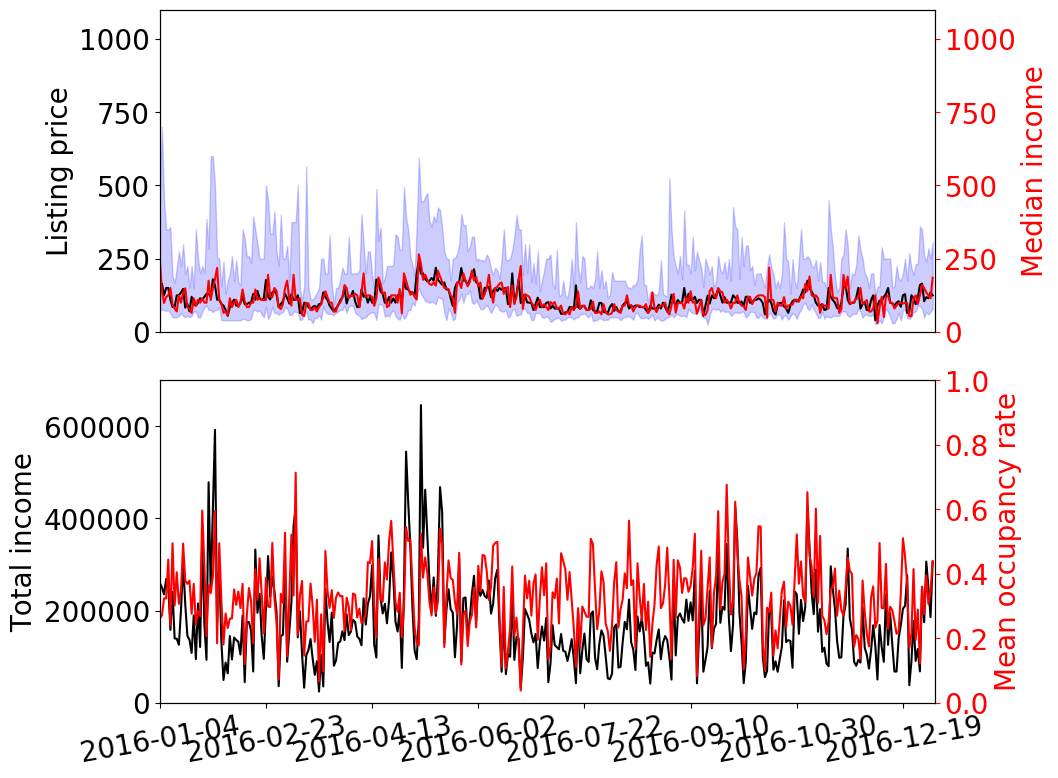
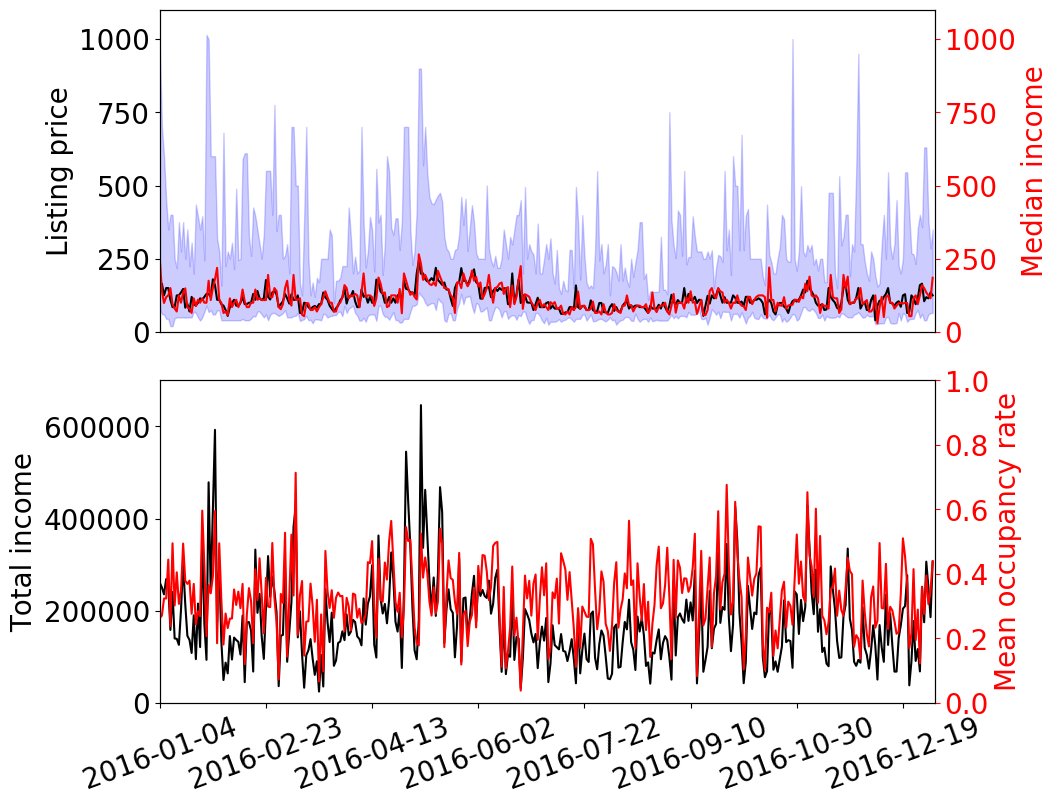
s

diff --git a/Project_1/2.py b/Project_1/2.py
@@ -12,12 +12,13 @@ cal = pd.read_csv('../Data/Project_1/calendar.csv')
 price = cal.apply(lambda row: float(re.sub('(\$|,)', '', row['price'])) if isinstance(row['price'], str) else np.nan, axis=1)
 price = pd.DataFrame(price.values.reshape(365, -1))
 price = price.ffill().bfill()
-price_qt = price.quantile([.1, .5, 0.9], axis=1).T
+price_qt = price.quantile([.05, .5, 0.95], axis=1).T
 price_top = ((price.T*-1).apply(lambda x: x.sort_values().values)*-1).T.iloc[:, :380]
 price_top_qt = price_top.quantile([.1, .5, 0.9], axis=1).T
 occupancy = pd.DataFrame(cal['available'].values.reshape(365, -1))
 occupancy = occupancy.replace(['t', 'f'], [0, 1])
 income = price*occupancy
+income_qt = income.replace(0, np.nan).quantile([0.05, 0.5, 0.95], axis=1).T
 date = cal['date'][:365]
 
 # figure
@@ -25,7 +26,7 @@ date = cal['date'][:365]
 fig = plt.figure(figsize=(10, 9))
 ax1 = fig.add_subplot(2, 1, 1)
 ax1.plot(price_qt[0.50], color='k')
-ax1.fill_between(date, price_qt[0.10], price_qt[0.90],
+ax1.fill_between(date, price_qt[0.05], price_qt[0.95],
                  color='b', alpha=0.2)
 ax1.set_xlim([0, 365])
 ax1.set_ylim([0, 1100])
@@ -34,7 +35,9 @@ ax1.tick_params(labelsize=20)
 ax1.axes.get_xaxis().set_visible(False)
 # median daily income
 ax12 = ax1.twinx()
-ax12.plot(income.replace(0, np.nan).quantile([0.5], axis=1).T, color='r')
+ax12.plot(income_qt[0.50], color='r')
+ax12.fill_between(date, income_qt[0.05], income_qt[0.95],
+                 color='b', alpha=0.2)
 ax12.set_ylim([0, 1100])
 ax12.set_ylabel('Median income', color='r', fontsize=20)
 ax12.tick_params(axis='y', colors='r', labelsize=20)
@@ -46,7 +49,7 @@ ax2.set_ylim([0, 700000])
 ax2.set_ylabel('Total income', fontsize=20)
 ax2.tick_params(labelsize=20)
 ax2.xaxis.set_major_locator(ticker.MultipleLocator(50))
-ax2.tick_params(axis='x', labelrotation=10)
+ax2.tick_params(axis='x', labelrotation=20)
 # occupancy
 ax22 = ax2.twinx()
 ax22.plot(occupancy.mean(axis=1), color='r')

diff --git a/Project_1/7.py b/Project_1/7.py
@@ -1,0 +1,40 @@
+
+import numpy as np
+import pandas as pd
+import re
+import matplotlib.pyplot as plt
+import matplotlib.ticker as ticker
+
+# import csv
+cal = pd.read_csv('../Data/Project_1/calendar.csv')
+
+# income analysis
+cal['price'] = cal.apply(lambda row: float(re.sub('(\$|,)', '', row['price'])) if isinstance(row['price'], str) else np.nan, axis=1)
+cal['price'] = cal['price'].ffill().bfill()
+cal['available'] = cal['available'].replace(['t', 'f'], [0, 1])
+price = cal['price']
+price = pd.DataFrame(price.values.reshape(365, -1))
+occupancy = pd.DataFrame(cal['available'].values.reshape(365, -1))
+income = price*occupancy
+income_sum = income.sum()
+id = list(cal['listing_id'].values.reshape(-1, 365)[:, 0])
+
+# rent length
+rent_length = pd.Series([], dtype='float')
+for i in occupancy.columns:
+    a = occupancy[i].eq(1)
+    b = a.cumsum()
+    c = b.sub(b.mask(a).ffill().fillna(0)).astype(int)
+    d = c[c>c.shift(-1)]
+    rent_length = rent_length.add(d.value_counts(), fill_value=0)
+rent_length2 = rent_length[:4]
+rent_length2['5+'] = rent_length[4:].sum()
+
+# figure
+fig = plt.figure(figsize=(10, 10))
+ax1 = fig.add_subplot(1, 1, 1)
+(rent_length2/rent_length2.sum()*100).plot.bar(rot=0, ax=ax1)
+plt.tick_params(labelsize=15)
+ax1.set_xlabel('Stay length (days)', fontsize=20)
+ax1.set_ylabel('Relative count (%)', fontsize=20)
+plt.savefig('Figures/Figure 7.png', bbox_inches='tight')
